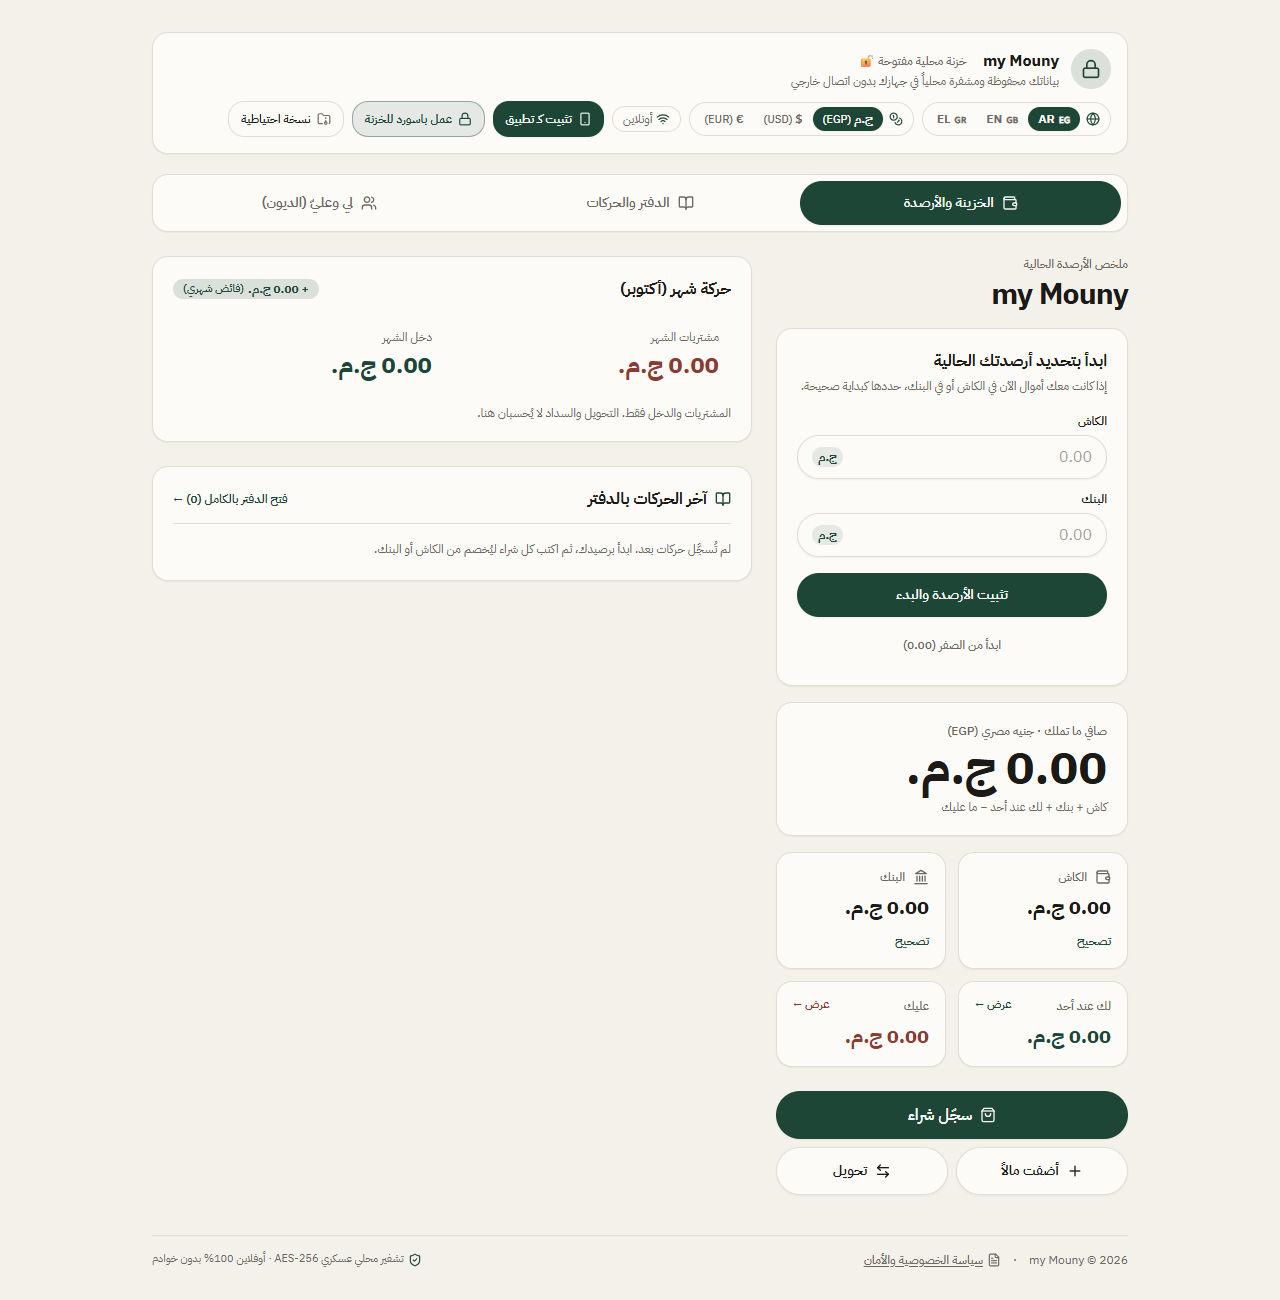
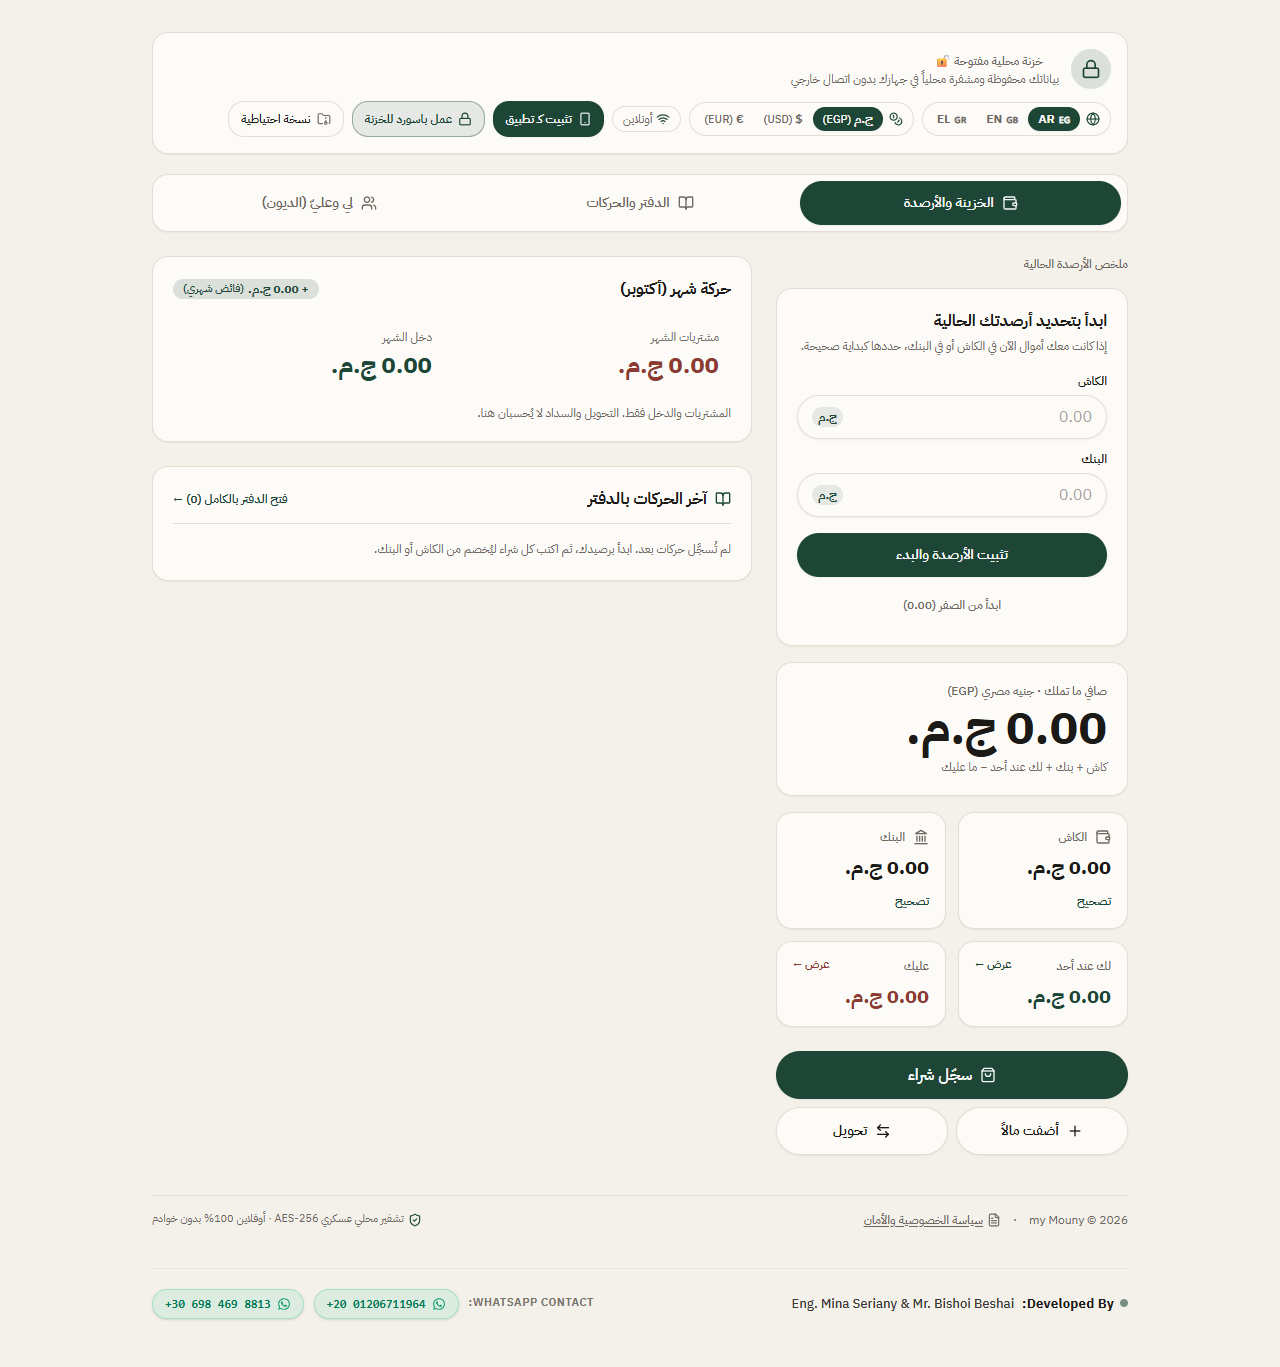
feat: add professional Developer & WhatsApp footer and complete PWABuilder manifest compliance

diff --git a/src/components/ledger/developer-footer.tsx b/src/components/ledger/developer-footer.tsx
@@ -1,0 +1,71 @@
+import React from "react";
+
+export function WhatsAppIcon({ className = "size-4" }: { className?: string }) {
+  return (
+    <svg
+      viewBox="0 0 24 24"
+      fill="currentColor"
+      className={className}
+      aria-hidden="true"
+    >
+      <path d="M12.031 2C6.496 2 2 6.496 2 12.031c0 1.768.46 3.493 1.332 5.008L2 22l5.121-1.343a10.007 10.007 0 0 0 4.91 1.282h.004c5.531 0 10.027-4.496 10.027-10.031A10.027 10.027 0 0 0 12.031 2zm0 18.368a8.318 8.318 0 0 1-4.244-1.157l-.304-.18-3.153.827.842-3.073-.198-.315a8.312 8.312 0 0 1-1.274-4.44c0-4.603 3.746-8.349 8.331-8.349a8.309 8.309 0 0 1 5.895 2.443 8.309 8.309 0 0 1 2.443 5.895c0 4.604-3.746 8.349-8.342 8.349zm4.566-6.241c-.25-.125-1.479-.73-1.708-.813-.23-.083-.396-.125-.563.125-.167.25-.646.813-.792.979-.146.167-.292.188-.542.063a6.848 6.848 0 0 1-2.015-1.242 7.55 7.55 0 0 1-1.393-1.737c-.146-.25-.016-.386.109-.51.112-.112.25-.292.375-.438.125-.146.167-.25.25-.417.083-.167.042-.313-.021-.438s-.563-1.354-.771-1.854c-.203-.487-.41-.421-.563-.429l-.479-.008c-.167 0-.438.063-.667.313s-.875.854-.875 2.083c0 1.229.896 2.417 1.021 2.583.125.167 1.764 2.694 4.274 3.777.597.258 1.064.412 1.428.528.6.191 1.146.164 1.578.1.481-.072 1.479-.604 1.688-1.188.208-.583.208-1.083.146-1.188-.063-.104-.229-.167-.479-.292z" />
+    </svg>
+  );
+}
+
+export function DeveloperFooter() {
+  return (
+    <section
+      aria-label="Developer & Contact Information"
+      className="mt-6 border-t border-line/60 pt-5 pb-4 text-xs text-muted"
+    >
+      <div className="flex flex-col md:flex-row md:items-center md:justify-between gap-3.5">
+        {/* Developers Credential */}
+        <div className="flex flex-col sm:flex-row sm:items-center gap-1.5 sm:gap-2">
+          <span className="font-bold text-ink tracking-wide text-[13px] flex items-center gap-1.5">
+            <span className="inline-block size-2 rounded-full bg-accent animate-pulse" />
+            Developed By:
+          </span>
+          <span className="text-ink/85 font-medium text-[13px]">
+            Eng. Mina Seriany &amp; Mr. Bishoi Beshai
+          </span>
+        </div>
+
+        {/* WhatsApp Contact Badges */}
+        <div className="flex flex-wrap items-center gap-2 sm:gap-2.5">
+          <span className="text-[11px] font-bold uppercase tracking-wider text-muted/90 flex items-center gap-1 mr-1">
+            WhatsApp Contact:
+          </span>
+
+          {/* Contact 1 */}
+          <a
+            href="https://wa.me/2001206711964"
+            target="_blank"
+            rel="noopener noreferrer"
+            aria-label="تواصل مع Eng. Mina Seriany عبر واتساب"
+            className="group inline-flex items-center gap-1.5 px-3 py-1.5 rounded-full bg-emerald-500/10 hover:bg-emerald-500/20 text-emerald-700 dark:text-emerald-300 border border-emerald-500/25 transition-all shadow-sm hover:shadow hover:scale-[1.02] active:scale-[0.98]"
+          >
+            <WhatsAppIcon className="size-3.5 text-emerald-600 dark:text-emerald-400 group-hover:scale-110 transition-transform" />
+            <span dir="ltr" className="font-mono text-[12px] font-semibold">
+              +20 01206711964
+            </span>
+          </a>
+
+          {/* Contact 2 */}
+          <a
+            href="https://wa.me/306984698813"
+            target="_blank"
+            rel="noopener noreferrer"
+            aria-label="تواصل مع Mr. Bishoi Beshai عبر واتساب"
+            className="group inline-flex items-center gap-1.5 px-3 py-1.5 rounded-full bg-emerald-500/10 hover:bg-emerald-500/20 text-emerald-700 dark:text-emerald-300 border border-emerald-500/25 transition-all shadow-sm hover:shadow hover:scale-[1.02] active:scale-[0.98]"
+          >
+            <WhatsAppIcon className="size-3.5 text-emerald-600 dark:text-emerald-400 group-hover:scale-110 transition-transform" />
+            <span dir="ltr" className="font-mono text-[12px] font-semibold">
+              +30 698 469 8813
+            </span>
+          </a>
+        </div>
+      </div>
+    </section>
+  );
+}

diff --git a/src/components/ledger/home.tsx b/src/components/ledger/home.tsx
@@ -53,6 +53,7 @@ import {
 } from "@/lib/ledger/model";
 import { openingAdjust, useLedger, type Draft } from "@/lib/ledger/store";
 import { VaultAuthScreen, BackupModal, SetPinModal } from "./vault-auth";
+import { DeveloperFooter } from "./developer-footer";
 import { useModalBackHandler, useRootBackHandler } from "@/lib/use-back-handler";
 import {
   LANGUAGES,
@@ -1460,25 +1461,30 @@ function Ledger() {
         </div>
       )}
 
-      {/* Footer with Privacy Policy and Local Security assurance */}
-      <footer className="mt-10 border-t border-line pt-4 flex flex-wrap items-center justify-between gap-3 text-xs text-muted">
-        <div className="flex items-center gap-3">
-          <span>{t("appName", lang)} &copy; 2026</span>
-          <span>·</span>
-          <a
-            href="/privacy.html"
-            target="_blank"
-            rel="noopener noreferrer"
-            className="hover:text-accent underline underline-offset-2 flex items-center gap-1 font-medium"
-          >
-            <FileText className="size-3.5" />
-            {t("footerPrivacy", lang)}
-          </a>
+      {/* Footer with Privacy Policy, Local Security assurance, and Developer Contact */}
+      <footer className="mt-10 border-t border-line pt-4 flex flex-col gap-4 text-xs text-muted">
+        <div className="flex flex-wrap items-center justify-between gap-3">
+          <div className="flex items-center gap-3">
+            <span>{t("appName", lang)} &copy; 2026</span>
+            <span>·</span>
+            <a
+              href="/privacy.html"
+              target="_blank"
+              rel="noopener noreferrer"
+              className="hover:text-accent underline underline-offset-2 flex items-center gap-1 font-medium"
+            >
+              <FileText className="size-3.5" />
+              {t("footerPrivacy", lang)}
+            </a>
+          </div>
+          <div className="flex items-center gap-1 text-[11px]">
+            <ShieldCheck className="size-3.5 text-accent" />
+            <span>{t("footerSecurity", lang)}</span>
+          </div>
         </div>
-        <div className="flex items-center gap-1 text-[11px]">
-          <ShieldCheck className="size-3.5 text-accent" />
-          <span>{t("footerSecurity", lang)}</span>
-        </div>
+
+        {/* Professional Developer & WhatsApp Contact */}
+        <DeveloperFooter />
       </footer>
     </main>
   );

diff --git a/src/components/ledger/vault-auth.tsx b/src/components/ledger/vault-auth.tsx
@@ -19,6 +19,7 @@ import { checkLockout } from "@/lib/storage/idb";
 import { useModalBackHandler, useRootBackHandler } from "@/lib/use-back-handler";
 import { LANGUAGES, t, type Language } from "@/lib/i18n";
 import { convertArabicDigits } from "@/lib/ledger/model";
+import { DeveloperFooter } from "./developer-footer";
 
 function getVaultDisplayName(name?: string, lang: Language = "ar"): string {
   if (
@@ -481,6 +482,10 @@ export function VaultAuthScreen() {
             </button>
           </form>
         )}
+      </div>
+
+      <div className="w-full max-w-md mt-2">
+        <DeveloperFooter />
       </div>
 
       {showExitToast && (
